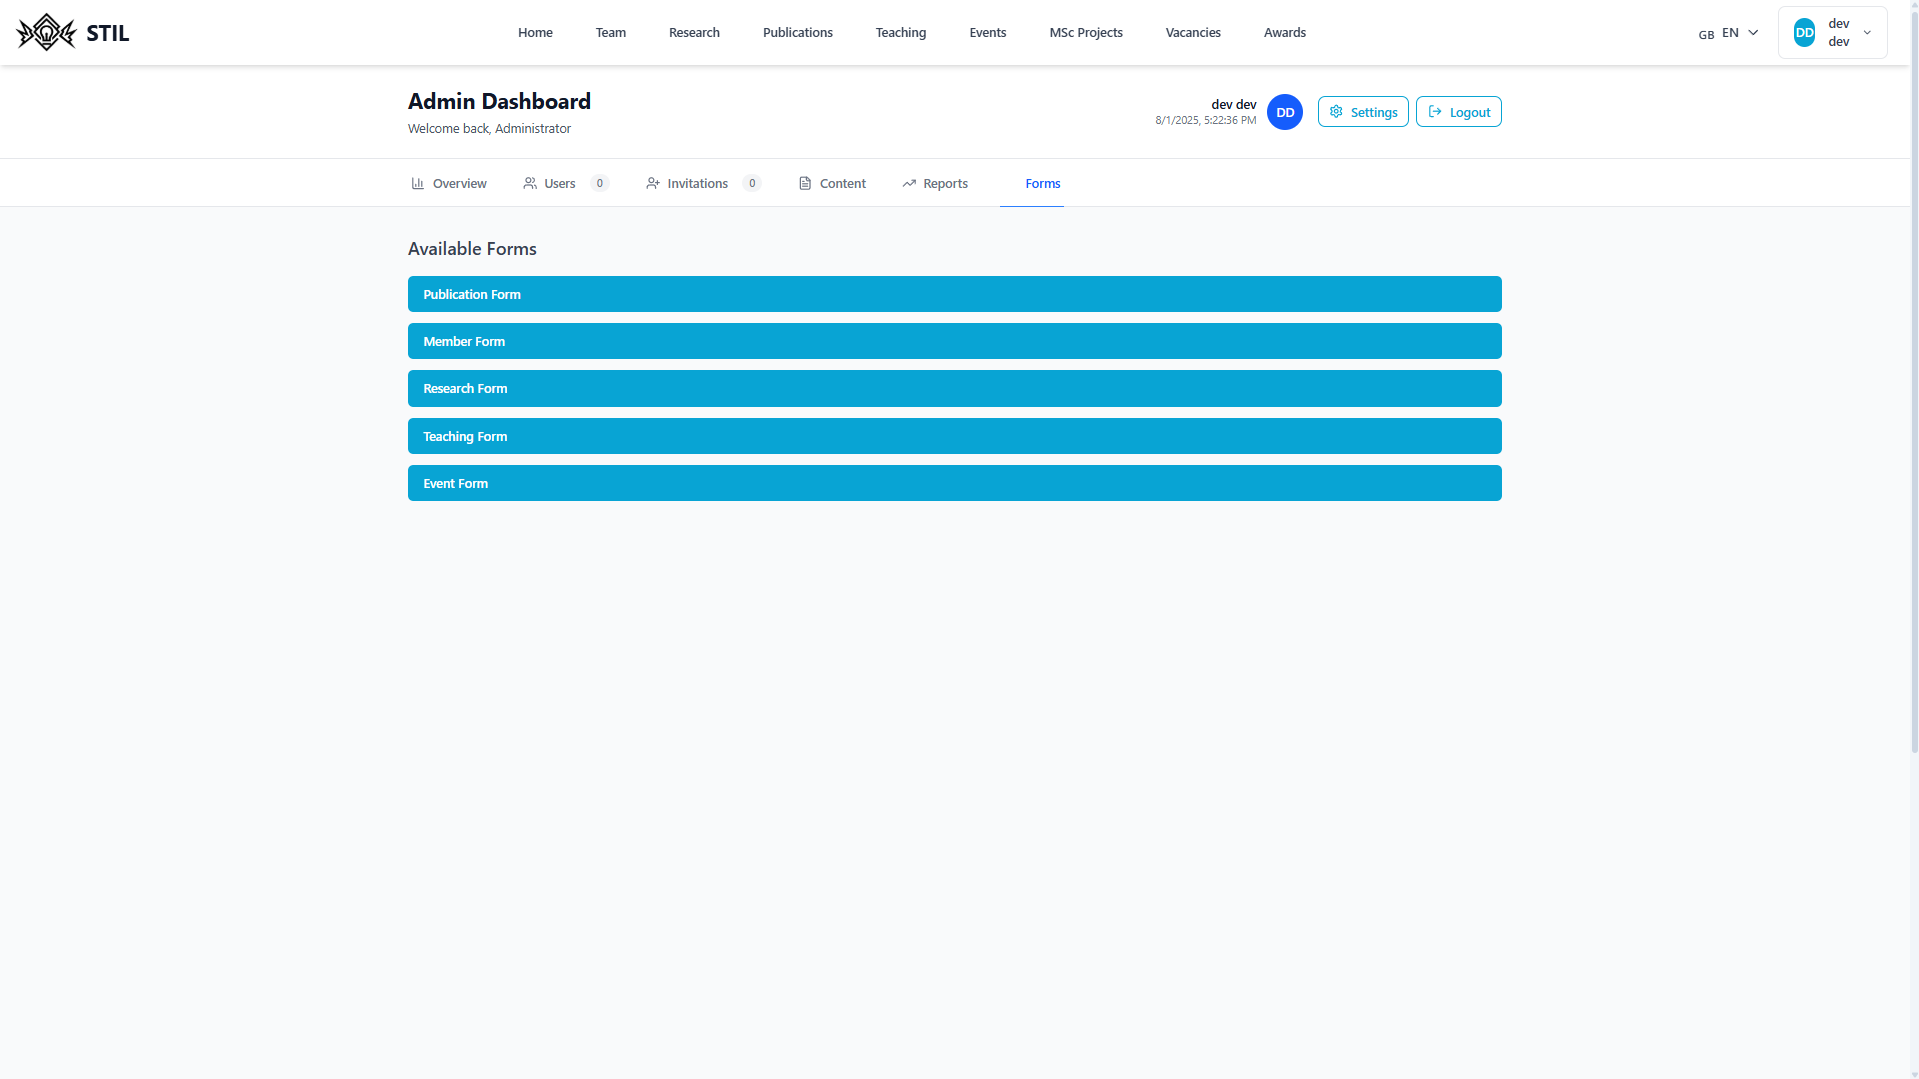
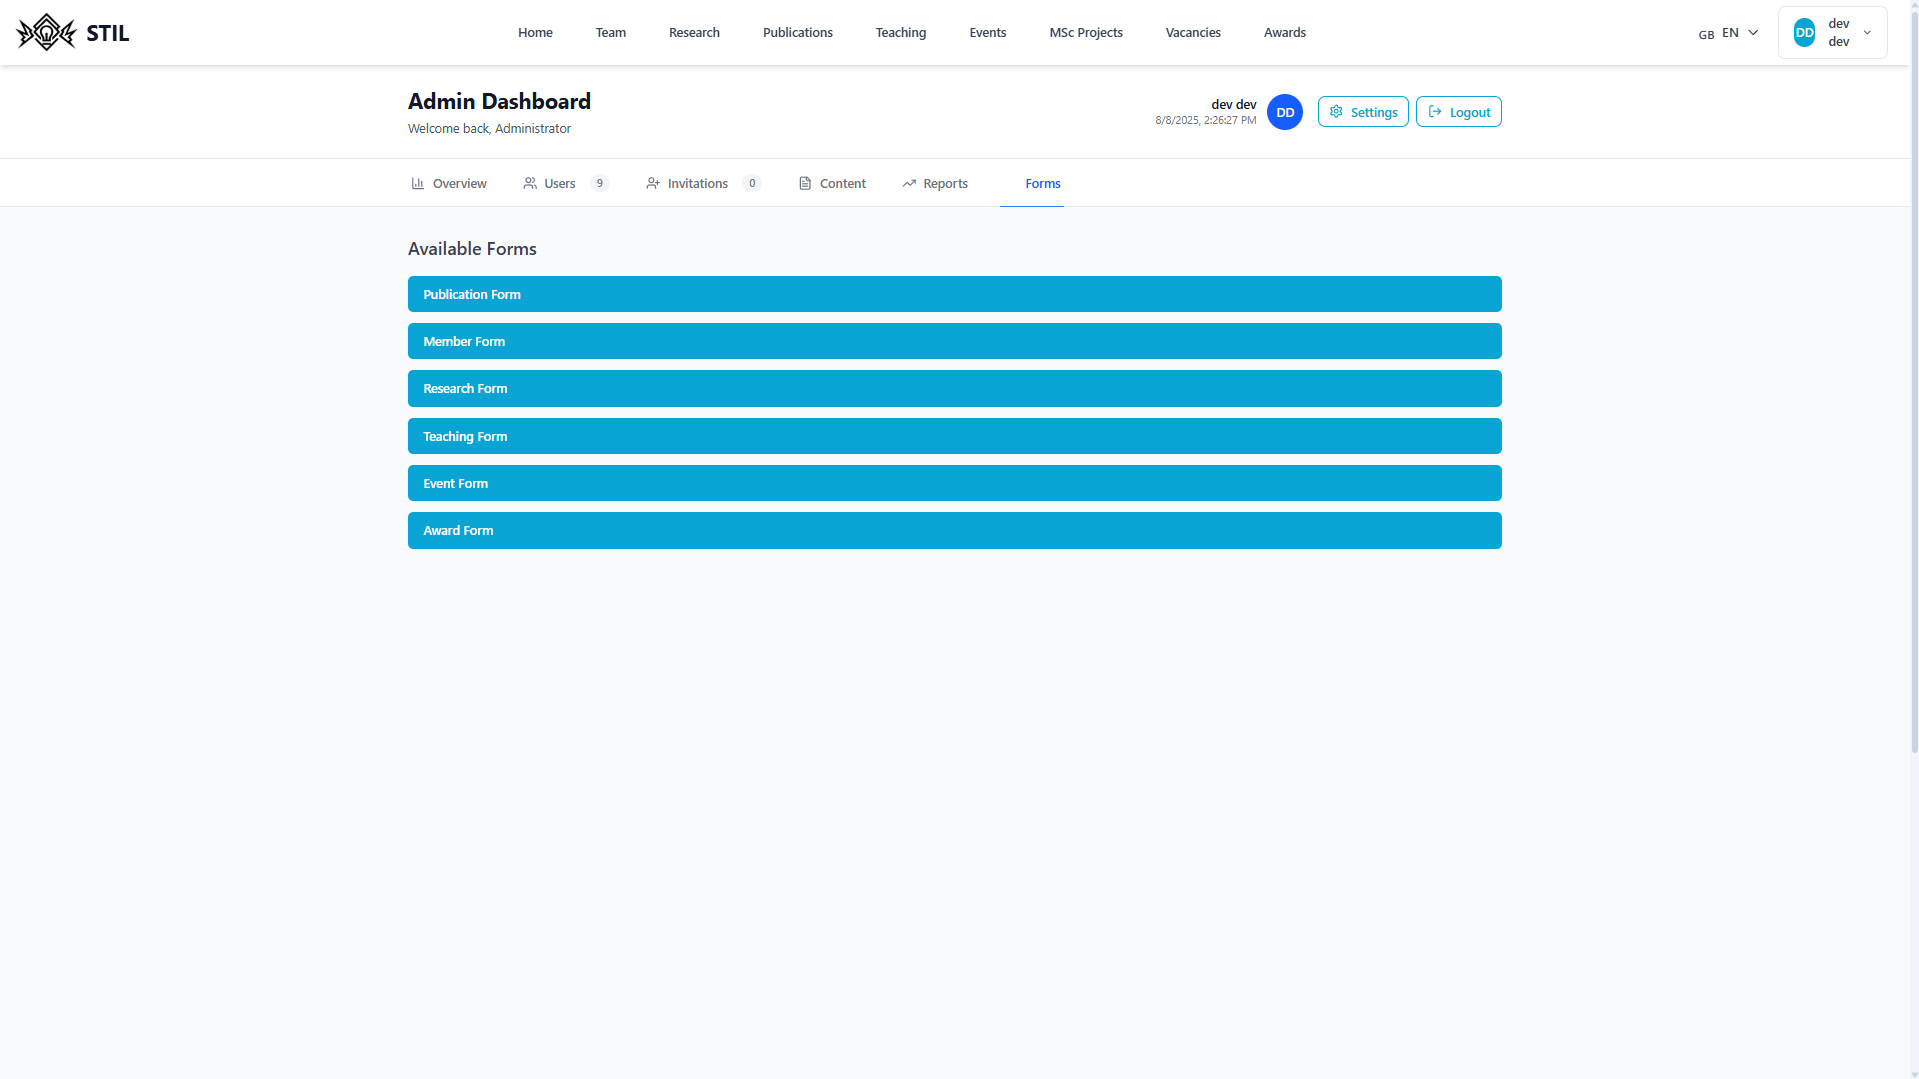
Updated user and admin guide

Changed region(s): [[0.2152, 0.4588, 0.7994, 0.5199]]

diff --git a/doc/userGuide/adminGuide.md b/doc/userGuide/adminGuide.md
@@ -12,102 +12,121 @@
     6.2. [Member Creation](#member-creation)  
     6.3. [Research Creation](#research-creation)  
     6.4. [Teaching Creation](#teaching-creation)  
-    6.5. [Event Creation](#event-creation)
-
----
+    6.5. [Event Creation](#event-creation)  
+    6.6. [Award Creation](#award-creation)
+7. [Django Dashboard](#django-dashbord)
 
 ### Dashboard Overview
+---
 
->`TODO`
+When admins access their dashboard, the first page they will see is this overview. It contains useful data and provides quick access to other functionalities.
 
 ![admin-dashboard](assets/admin-dashboard.png)
 
-
+### Users Management
 ---
 
-### Users Management
+This page displays an overview of user statistics and a list of current users, including their name, email, role, join date, and an option to directly edit their profile.
 
->`TODO`
+Admins can also create a new user by clicking the Add User button, which uses the same form as the [Member Form](#member-creation)  page.
 
 ![admin-dashboard users](assets/admin-dashboard_users.png)
 
+### Member Invitations
 ---
 
-### Member Invitations
-
->`TODO`
+This page shows a list of current invitations sent by admins. The list can be filtered by status. New invitations can be created using the `Send Invitation` button. Admins must provide a valid email and assign a role to the invitee.
 
 ![admin-dashboard invitations](assets/admin-dashboard_invitation.png)
 
+### Content Mangement
 ---
 
-### Content Mangement
-
->`TODO`
+This page displays a list of recent content. Admins can view the status of each item (e.g., `pending` if it awaits approval).
 
 ![admin-dashboard content](assets/admin-dashboard_content.png)
 
+### Reports
 ---
 
-### Reports
-
-The admins can find, in their dashboard, a report page that can show useful informations such as the statisics on the content of the website and also statisics for it users.
+The Reports page provides useful information, such as statistics about website content and user activity.
 
 ![admin dashboard reports](assets/admin-dashboard_reports.png)
 
+### Forms
 ---
 
-### Forms
+Several forms are available for admins to manage different types of content:
 
-There is multiple forms avaible for admins to use to manage the contents.
-
-- Publications
-- Members
-- Researches
-- Teaching
-- Events
+- [Publications](#publication-creation)  
+- [Members](#member-creation)  
+- [Researches](#research-creation)  
+- [Teaching](#teaching-creation)  
+- [Events](#event-creation)
 
 ![admin dashboard forms](assets/admin-dashboard_forms.png)
 
-
 #### Publication Creation
+---
 
-The admins can create directly a new publication by entering the informations into the proposed fields.
+Admins can create a new publication directly by entering the information into the provided fields.
 
-They can also import the BibTeX by pasting it in the avaible field marked as `Import from BibTeX`.
+They can also import a BibTeX entry by pasting it into the available field marked as `Import from BibTeX`.
 
 After filling the fields, the admins can either `Cancel` or `Create`.
 
 ![admin dashboard forms publication](assets/admin-dashboard_forms_publication.png)
 
 #### Member Creation
+---
 
-The admins can create a member <u>not</u> associated with a registered user. This mean, the member created can not login with the information used for the creation.
+Admins can create a member <u>not</u> associated with a registered user. This means the created member cannot log in using the information provided during creation.
 
-The purpose of this form is to associate possible external members without them needing to create an account. If they want to properly register an account later, the admin can delete the old member and edit, for exemple, a publication to associate the correct member.
+The purpose of this form is to associate possible external members without requiring them to create an account. If they wish to register properly later, the admin can delete the old member and, for example, edit a publication to associate the correct member.
 
 ![admin dashboard forms member](assets/admin-dashboard_forms_member.png)
 
-
 #### Research Creation
+---
 
-The admins can create researches. This form also allow to associate members to it and add relevant urls like a custom one for the research and a github url.
+Admins can create research entries. This form allows them to associate members by selecting them from the available list (hold the `ctrl` or `shift` key to select multiple members). They can also add relevant URLs, such as a custom one for the research and a GitHub URL.
 
-The end date of the research can be empty if the research is still beeing worked on or simply not ended.
+The end date of the research can be left empty if the research is still ongoing or not yet concluded.
 
 ![admin dashboard forms research](assets/admin-dashboard_forms_research.png)
 
-
 #### Teaching Creation
+---
 
-The admins can use the teaching form to create courses. They can also associate a member to it.
+Admins can use the teaching form to create courses. They can also associate a member with the course.
 
 ![admin dashboard forms teaching](assets/admin-dashboard_forms_teaching.png)
 
 #### Event Creation
+---
 
-Like the other forms, the admins can create events by filling the fields of the form. They have the ability to associate a member as a speaker for the event. They can also add a custom url for the registration of the event.
+Like the other forms, admins can create events by filling in the form fields. They have the ability to associate a member as a speaker for the event. They can also add a custom URL for event registration.
 
 ![admin dashboard forms event](assets/admin-dashboard_forms_event.png)
 
+#### Award Creation
 ---
+
+Admins can create award entries by specifying basic information and the award details.
+
+![admin dashboard forms award](assets/admin-dashboard_forms_award-1.png)
+
+This form allows admins to associate members as Recipients by selecting them from the available list (hold the `ctrl` or `shift` key to select multiple members).
+
+![admin dashboard forms award members](assets/admin-dashboard_forms_award-2.png)
+
+### Django Dashboard
+---
+
+All admin functionalities are also available directly in the Django admin dashboard. To access it, navigate to the backend URL followed by `/admin` (local: http://localhost:8000/admin). You will be greeted by a login prompt where you can enter the same credentials as your admin account (username and password):
+
+![django login](assets/django-login.png)
+
+Once logged in, all the previous forms are also available here. Admins have the ability to create, update, and delete all website content from this interface.
+
+![django login](assets/django-dashboard.png)

diff --git a/doc/userGuide/userGuide.md b/doc/userGuide/userGuide.md
@@ -1,5 +1,7 @@
 # User guide
 
+This guide provides an overview of the different sections of the website and how to interact with them as a normal user.
+
 ## Table of Contents
 1. [Homepage](#homepage)
 2. [Team](#team)
@@ -8,60 +10,120 @@
 5. [Teaching](#teaching)
 6. [Events](#events)
 7. [Awards](#awards)
+8. [Language](#language)
+9. [Login/Profile](#login-profile)
 
 ## Homepage
 
->`TODO`
+The homepage offers a quick overview of the lab's activities. You’ll find:
+- Key statistics (e.g., number of publications, active projects, researches).
+- Quick access links to other sections of the site.
 
 ![homepage](assets/homepage.png)
 
----
-
 ## Team
 
-List of the members.
+This page lists all lab members, including:
+- Professors
+- PhD students
+- Master's students
 
->`TODO`
+You can filter and search the list using:
+- <b>Status</b>: Active, Alumni, or All
+- <b>Research Domains</b>
+- <b>Search Bar</b>: Search by name or other keywords
+
+Each member card provides a brief summary and linked to more detailed profiles
 
 ![members](assets/members.png)
 
----
-
 ## Research
 
->`TODO`
+A list of research projects carried out by the lab.
+- Each item includes a title, description, leader, and relevant links.
+- Some stat shows how many active projects are ongoing
 
----
+![members](assets/researches.png)
 
 ## Publications
 
->`TODO`
+This is the main focus of the website — a comprehensive list of all lab publications.
 
----
+You can:
 
+- Search by title or author
+- Filter by:
+    - Year
+    - Type
+- Sort:
+    - By year (ascending/descending)
+    - By title
+
+Each publication displays its metadata and links to full texts or BibTeX entries.
+
+![members](assets/publications.png)
 
 ## Teaching
 
-List of avaible courses
+A list of courses taught by lab members.
 
->`TODO`
+Each course entry includes:
+- The course code
+- Whether it's for undergraduate or graduate level
+- The professor responsible
+- The term/session it will be given (e.g., Fall 2025)
+
+The `Syllabus` button redirects you to the official ÉTS course page.
+
+Useful statistics are also shown, such as the number of current courses, number of instructors, etc.
 
 ![courses](assets/courses.png)
 
----
-
 ## Events
 
->`TODO`
+List of events organized or promoted by the lab.
+
+You can:
+- Filter by:
+    - Status (Upcoming, Past)
+    - Type
+
+Each event includes a description, speaker, and registration info.
 
 ![events](assets/events.png)
 
----
-
 ## Awards
 
->`TODO`
+This section lists awards received by lab members or associated with lab activities.
+
+You can filter by:
+- Year
+- Organization
+- Member
+
+Useful stats (e.g., number of awards by year or member) are displayed at the top of the page.
 
 ![events](assets/awards.png)
 
----
+
+## Language
+
+You can change the language to `EN` or `FR` by selecting it in the top right corner.
+
+![lang](assets/lang-1.png)
+![lang](assets/lang-2.png)
+
+## Login-Profile
+
+If you are not already authenticated, you can by clicking on the sign in button found in the top right corner.
+
+![login btn](assets/login-btn.png)
+
+To authenticate yourself, provide your email and password in the form.
+
+![login form](assets/login.png)
+
+When authenticated, you can navigate to your profile. In this example, the user is an admin so there's more options, which can be found in the [Admin Guide](adminGuide.md)
+
+![logged in popup](assets/logged-in.png)
+
